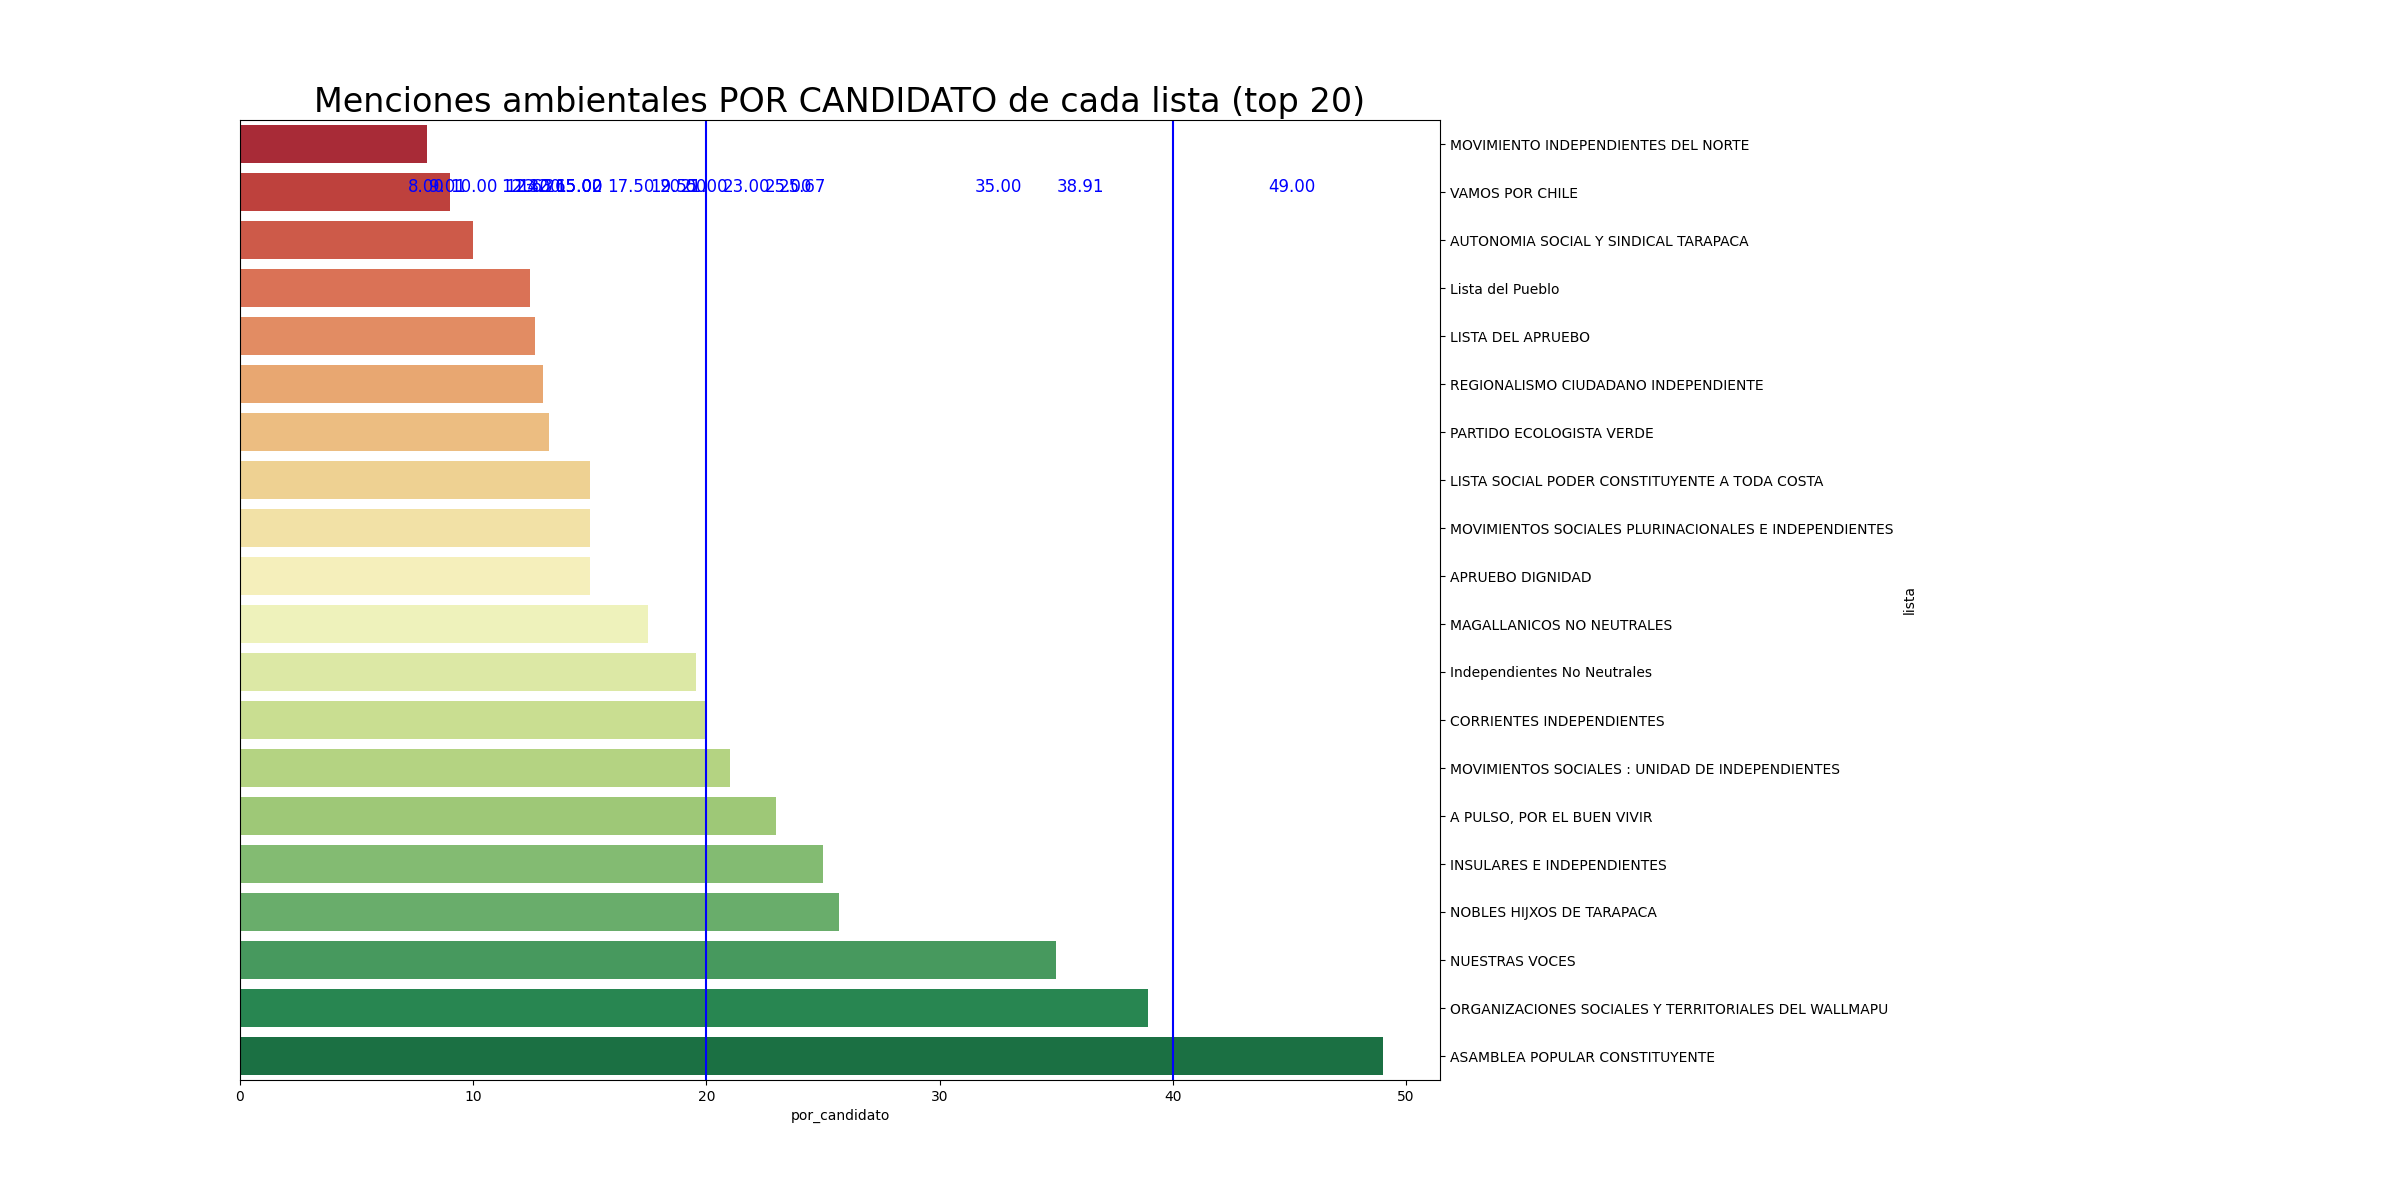
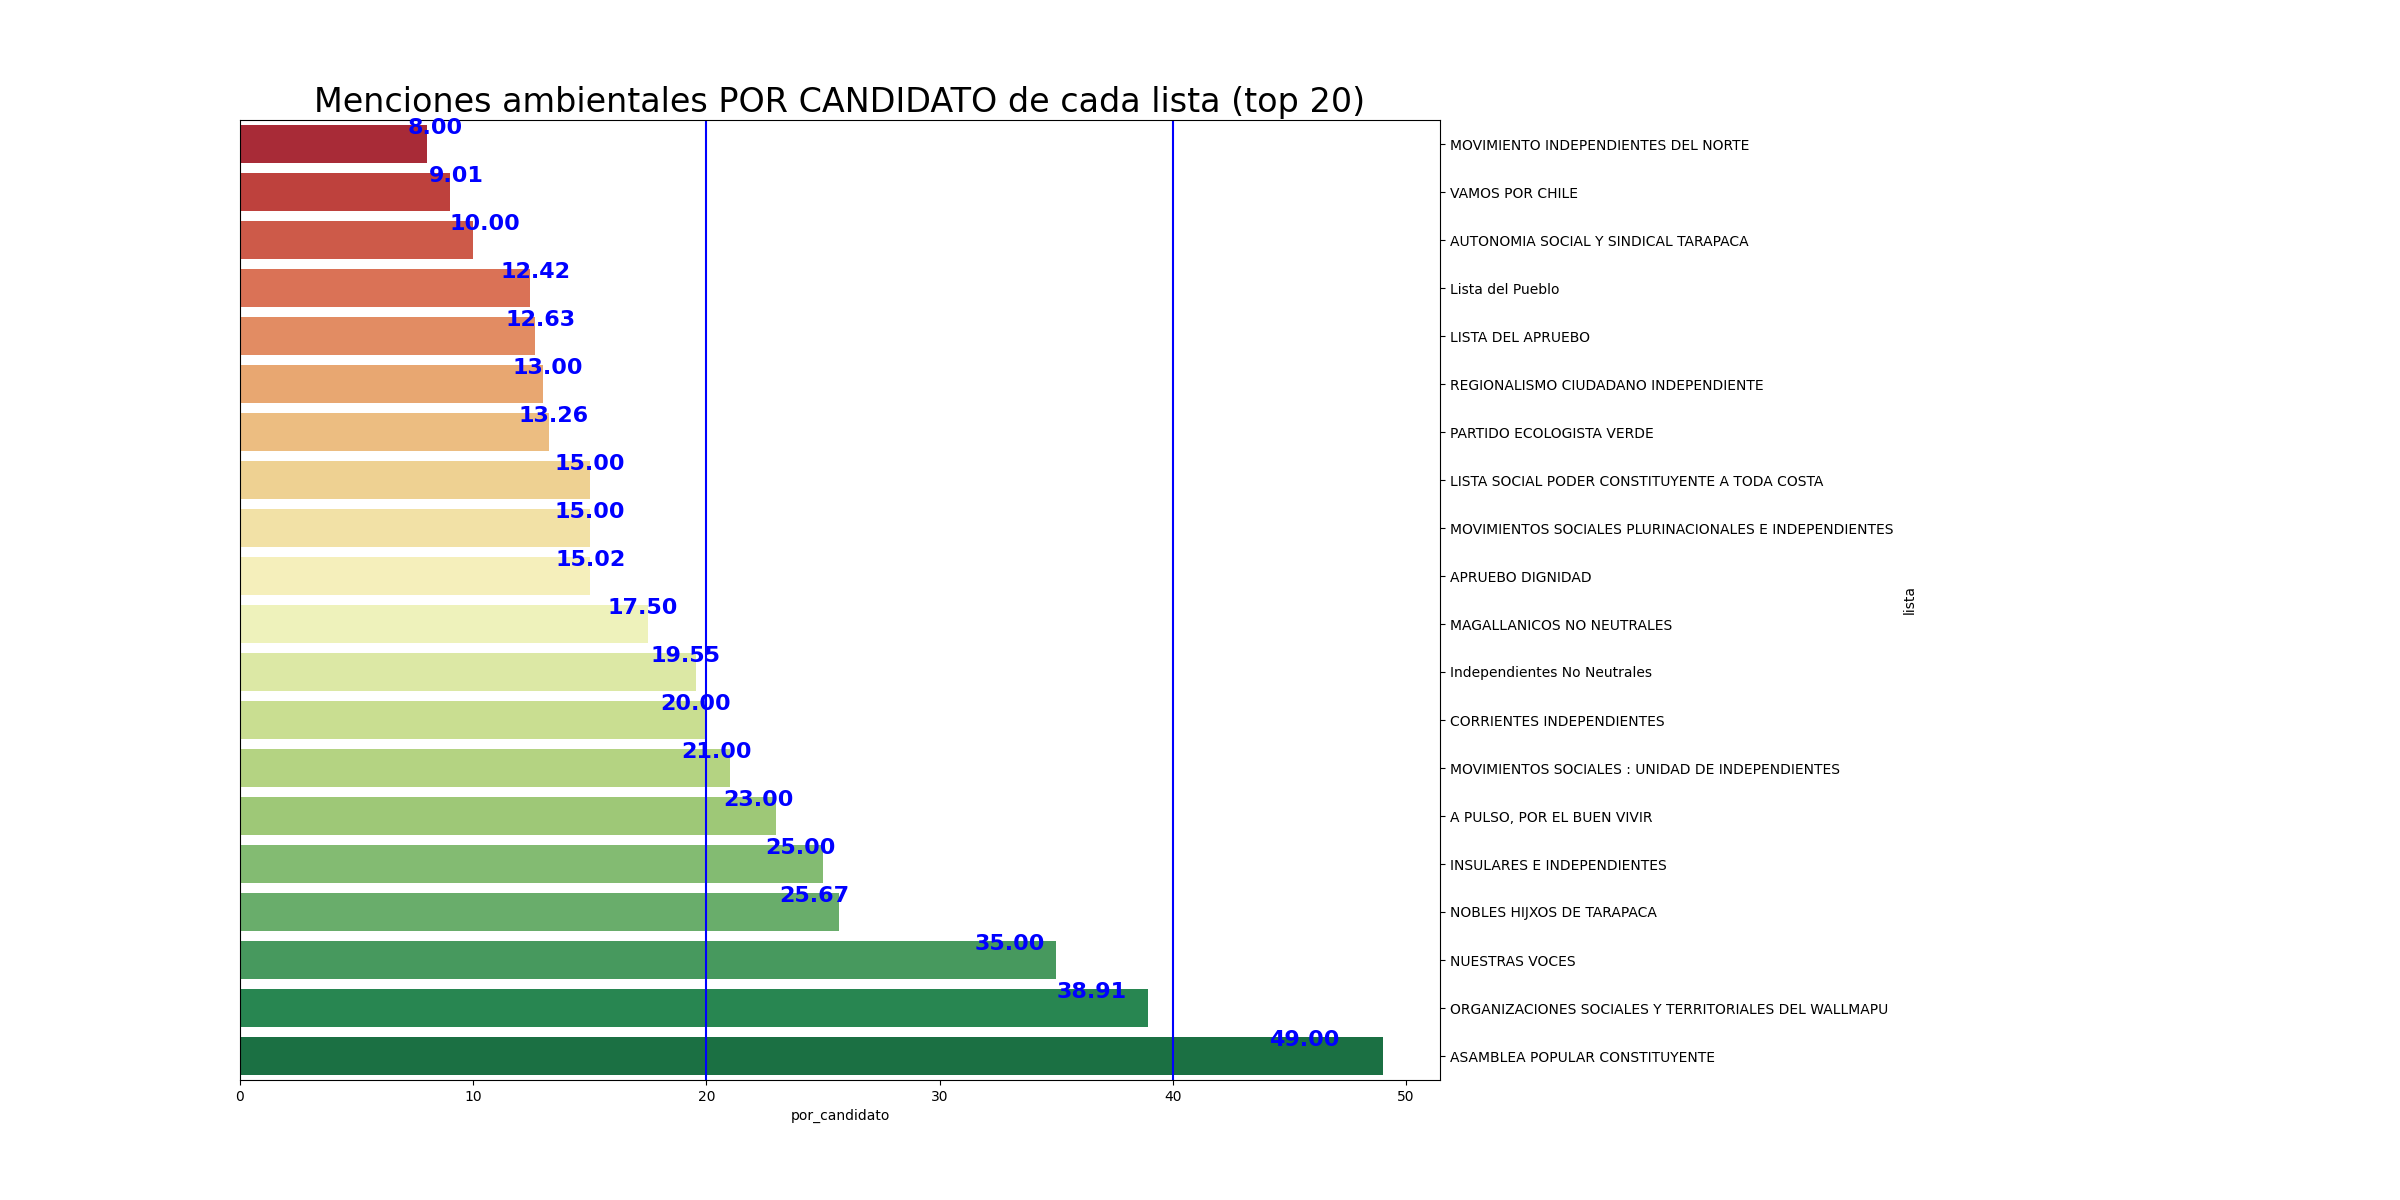
pushing it

diff --git a/plotters.py b/plotters.py
@@ -225,7 +225,7 @@ fig, ax = plt.subplots(1, figsize=(24,12))
 #print(ts)
 #wn
 ts = lisdf.sort_values('por_candidato').tail(20)
-sns.barplot(x='por_candidato', data=ts,
+ax = sns.barplot(x='por_candidato', data=ts,
             y='lista', palette='RdYlGn')
 #sns.barplot(x='total_menciones', data=ts.sort_values('total_menciones'), 
 #            y='lista', palette='RdYlGn')
@@ -235,9 +235,10 @@ ax.yaxis.set_label_position("right")
 ax.yaxis.tick_right()   # all this works!
 ###   plot them numbers too!
 for patch in ax.patches:
-    xy = patch.get_width()*0.9, patch.get_height()+0.2
+    xy = patch.get_width()*0.9, patch._y0+0.2
     texto = '%.2f' %patch.get_width()
-    ax.annotate(texto, xy, color='blue', fontsize=12)
+    print(xy)
+    ax.annotate(texto, xy, color='blue', fontsize=16, weight='bold')
 
 #plt.margins(x=0.4)
 #plt.xlim([0,3000])
